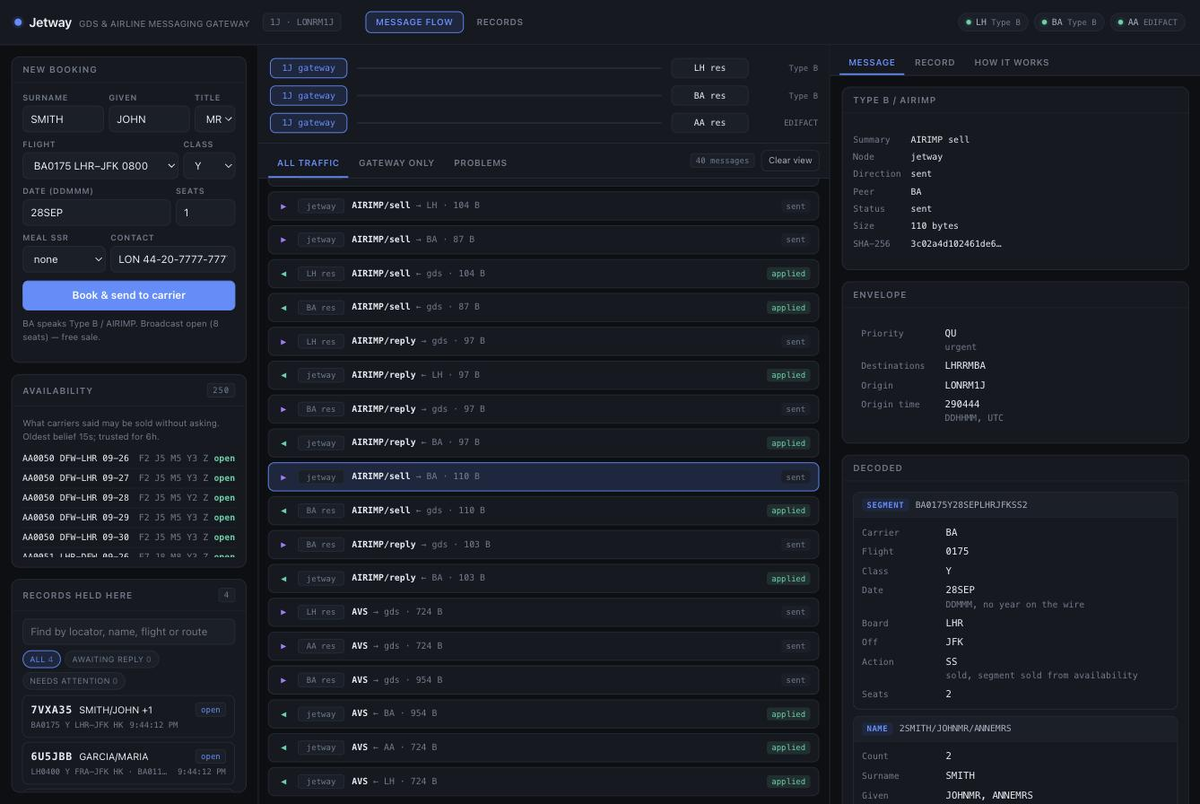
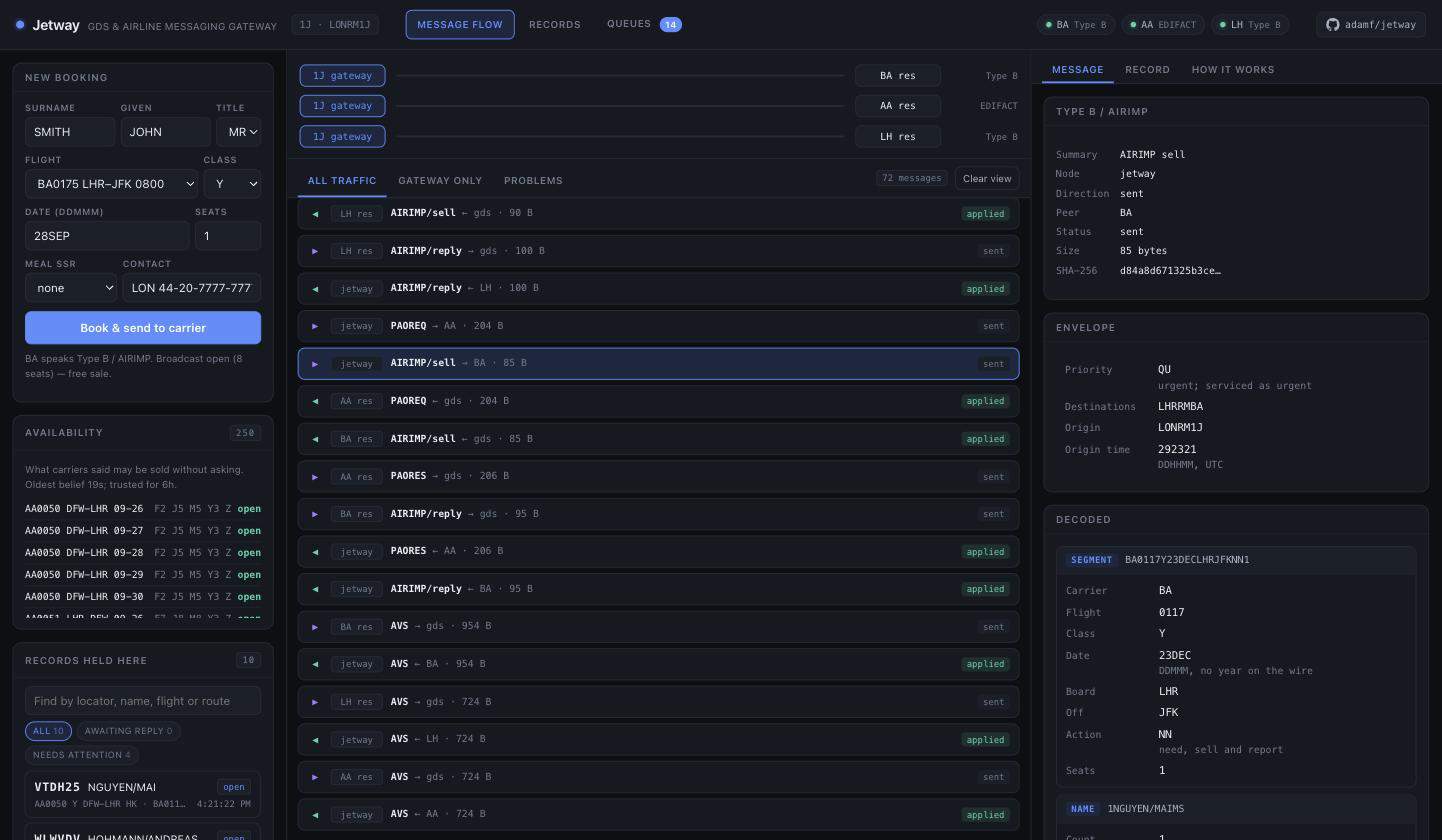
Reshoot the console images, and say what the record now holds
Three of the five images predated tickets, EMD, cancellation and
splitting, and the record detail one showed a record that could only
hold an itinerary. The README described a narrower thing than the one
in the repository.

New shots from a console holding a real spread: a ticketed interline
booking with an EMD-A stapled to a named flight coupon, an EMD-S
attached to no flight, a third passenger divided onto their own record,
and queues carrying confirmations, refusals, a waitlist and three
divergences. The message flow shot now shows the priority band beside
the code and an NN rather than an SS, because the interesting case is
the gateway asking rather than selling from free sale.

The hero recording was remade the same way and is roughly the size of
the one it replaces: the booking goes out, the carrier answers, the
record appears, and the confirmation lands on a queue.

Prose caught up in three places. The opening said the gateway captures,
decodes, applies and replies, which stopped being the whole of it some
time ago -- it also issues documents, exchanges coupon status, cancels
and divides. The console table gained the three operations a visitor can
now actually perform. And the queues section now explains the divergence
queue, which is where this node admits it and a partner disagree, and is
the honest half of several features.

Claude-Session: https://claude.ai/code/session_01EcjUj4wG4nicvJX2MhGn5x

diff --git a/README.md b/README.md
@@ -13,9 +13,14 @@ traffic actually uses:
 - **NDC** — IATA order messages over HTTP, mapped onto the same record store.
 
 Point a carrier's stream at it and it will capture, decode, apply and reply —
-and when it meets something it does not understand, it keeps that too. Records
-that need a human land on a work queue, and messages are routed on the address
-line, so one message reaches every addressee it names.
+and when it meets something it does not understand, it keeps that too.
+
+Beyond the messages it holds the record and does things to it: issues tickets
+and miscellaneous documents, exchanges coupon status with the carrier flying
+the passenger, cancels a booking and tells everyone holding it, divides one
+booking into two. Anything that needs a person lands on a work queue, and
+anything it could not tell a partner lands there too, named rather than
+swallowed.
 
 A partner reaches it over HTTPS with mutual TLS, over a framed TCP circuit, or
 by dropping files in a directory. Their identity comes from the certificate
@@ -78,6 +83,9 @@ Things worth trying in the console:
 | Compare a Type B message with an EDIFACT one | The same booking on two very different wires |
 | Book an **interline** journey from the Records tab | One record, two carriers, two dialects, two locators |
 | Open the **Queues** tab after any of the above | Each partner answer becomes a task, one per carrier |
+| **Issue tickets** on a record | Document numbers with a mod-7 check digit, a coupon per segment, and the operating carriers told |
+| **Cancel** a booking | `XX` goes to every carrier holding it; one that cannot be reached becomes a divergence |
+| **Split** a party | Seats divide with the passengers, and every per-passenger reference is remapped |
 
 ### Message flow
 
@@ -85,9 +93,10 @@ Things worth trying in the console:
 
 Every exchange appears twice, once from each side, so you can watch a message
 leave the gateway and arrive at the carrier. Selecting one shows the Type B
-envelope and the AIRIMP elements broken out — here the action code `SS` is
-explained as *sold, segment sold from availability*, meaning the carrier had
-already granted free sale and no request was needed.
+envelope and the AIRIMP elements broken out: the priority code with the band it
+is serviced in, and the action code `NN` explained as *need, sell and report* —
+the gateway asking, because this date is outside what the carrier has broadcast
+as free sale.
 
 ### Records
 
@@ -96,17 +105,25 @@ already granted free sale and no request was needed.
 The GDS side. A record is found by who is travelling, not by its locator, so
 the table leads with passengers and the itinerary. Interline records are
 marked, and **Their locators** shows the reference each carrier holds for the
-same booking — the thing that makes a later message match up.
+same booking — the thing that makes a later message match up. Status is what
+the carriers actually said: `HK` held, `HL` waitlisted, `UC` refused and the
+record cancelled behind it.
 
-### One record, two carriers
+### One record, two carriers, and what was issued against it
 
-![Record detail with itinerary, history and conversation](docs/images/record-detail.png)
+![Record detail showing tickets, an associated EMD and a split](docs/images/record-detail.png)
 
-`6U5JBB` is one passenger on two airlines: Lufthansa FRA–JFK and British
-Airways JFK–LHR. Lufthansa was asked over EDIFACT and British Airways over Type
-B; each answered separately and each returned its own locator. The history
-names the message behind every change, and the conversation below it links
-straight back to those messages.
+Two passengers on two airlines: American DFW–LHR and British Airways LHR–JFK,
+one asked over EDIFACT and one over Type B, each answering separately and each
+returning its own locator.
+
+Below the itinerary is everything issued against it. Two flight tickets, a
+coupon per segment. An **EMD-A** for excess baggage, stapled to a named flight
+coupon — when that coupon is flown, the value coupon is lifted with it. An
+**EMD-S** for a residual balance, attached to no flight at all. And **Split
+to**, because a third passenger was divided onto their own record: both halves
+stay live, both keep the same carrier locator, and the carriers still hold one
+record until they are advised.
 
 ### Queues
 
@@ -121,6 +138,12 @@ status it moved to.
 Two other things land here that nobody sends a message about: a request a
 partner never answered, and a ticketing time limit that passed. Only a periodic
 sweep can see those, which is why there is one.
+
+The **divergence** queue is where this node admits it and a partner disagree: a
+cancellation that could not be delivered, a ticket the operating carrier was
+never told about, a division the carriers still have not been advised of. None
+of those are errors the pipeline can retry away, and none of them should be
+silent.
 
 From the command line:
 
